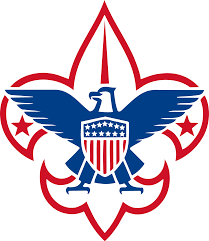
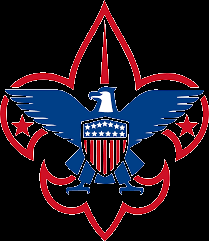
Edits to color scheme

diff --git a/index.html b/index.html
@@ -6,10 +6,12 @@
     <title>Troop 820 Home</title>
 	<style type="text/css">
 	body{margin: 0;
+	     background: black;
 	     background-image: url('./BG/BSA_Symbol.png');}
 	h1{text-size: 60px;
 	   text-align: center;
-	   border-bottom: 2px solid black;}
+	   color: blue;
+	   border-bottom: 2px solid blue;}
 	</style>
 
 </head>
